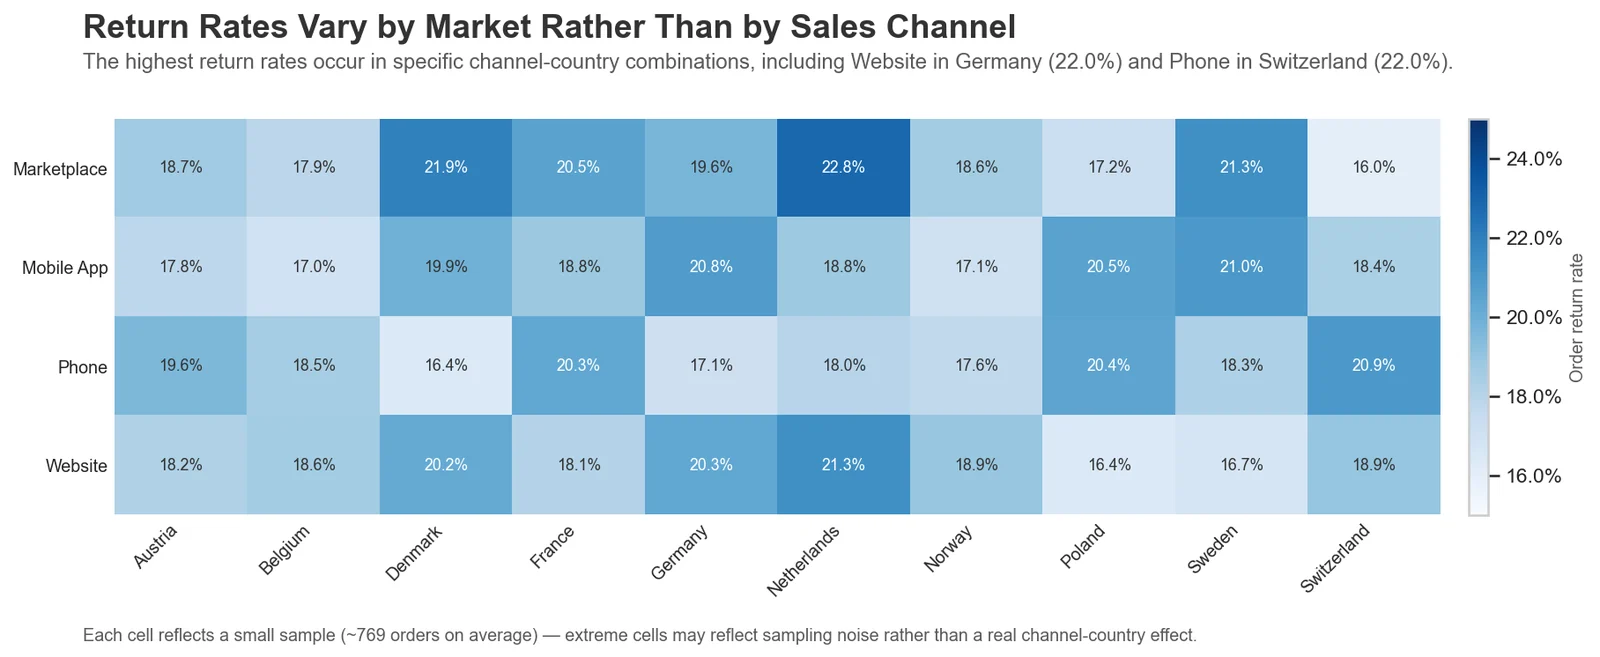
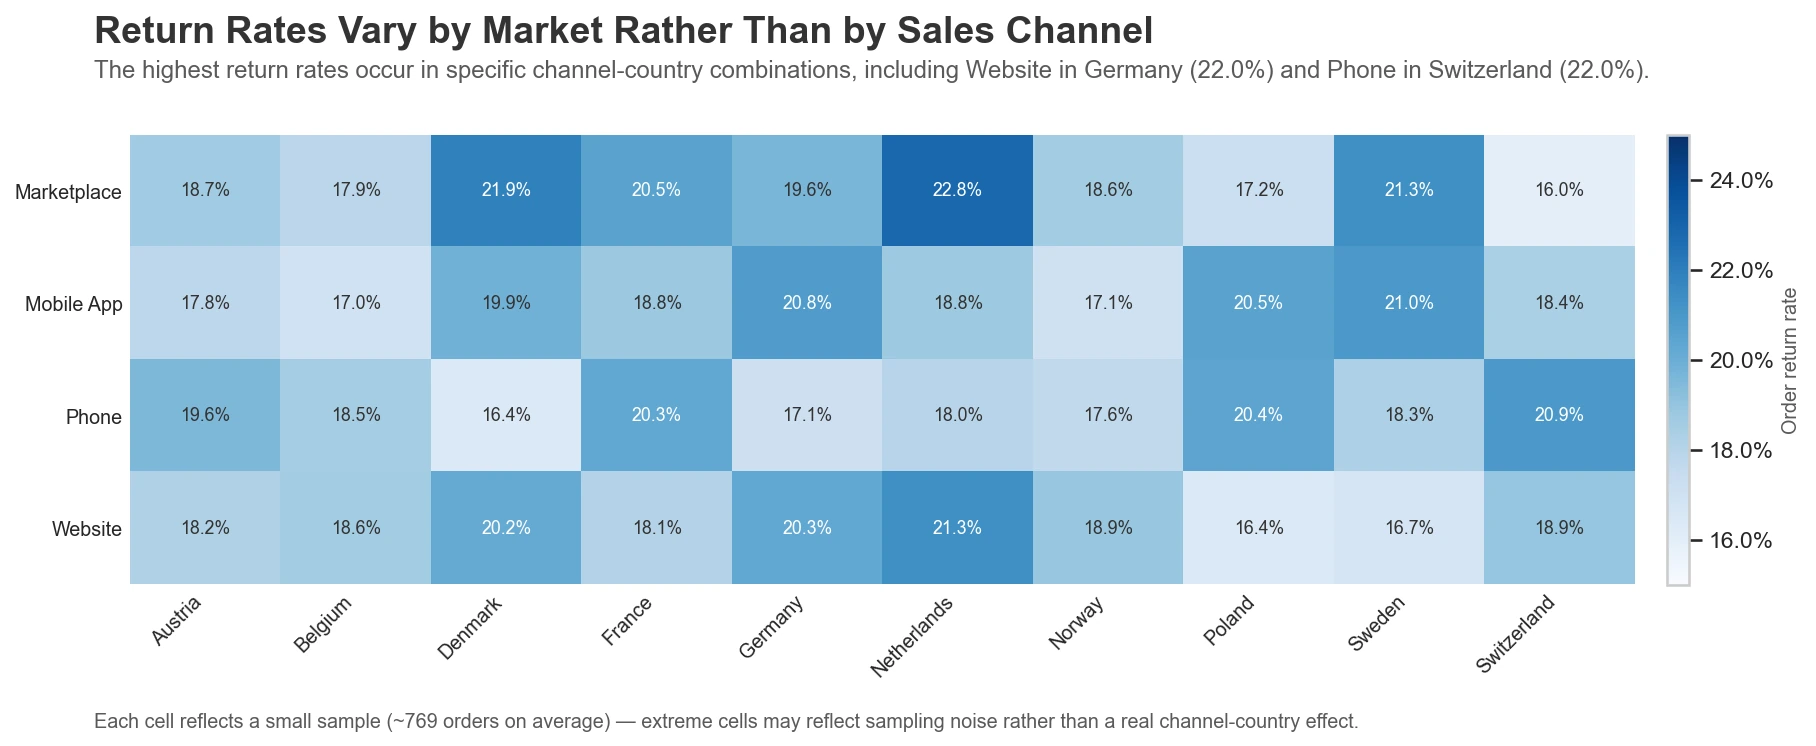
NordHome page: use full-resolution dashboard and EDA images
Claude-Session: https://claude.ai/code/session_01WrYojPvr5pPYxGQ397kDFe

diff --git a/nordhome-retail.html b/nordhome-retail.html
@@ -116,7 +116,7 @@
 <div class="nh-eda">
 <p class="nh-label" data-en="The question" data-de="Die Frage">The question</p>
 <h3 data-en="How much order value do cancellations, returns and refunds take away?" data-de="Wie viel Bestellwert nehmen Stornos, Retouren und Erstattungen weg?">How much order value do cancellations, returns and refunds take away?</h3>
-<figure class="nh-fig"><a class="nh-zoom" href="images/nordhome-eda-status-impact.webp" target="_blank" rel="noopener" aria-label="Open full size"><img src="images/nordhome-eda-status-impact.webp" alt="Bar chart of order value lost to cancellations, returns and refunds per year" width="1600" height="824" loading="lazy" decoding="async"></a></figure>
+<figure class="nh-fig"><a class="nh-zoom" href="images/nordhome-eda-status-impact.webp" target="_blank" rel="noopener" aria-label="Open full size"><img src="images/nordhome-eda-status-impact.webp" alt="Bar chart of order value lost to cancellations, returns and refunds per year" width="1961" height="1010" loading="lazy" decoding="async"></a></figure>
 <p class="nh-label" data-en="What I found" data-de="Was ich fand">What I found</p>
 <p class="nh-body" data-en="About &lt;strong&gt;17%&lt;/strong&gt; of potential order value every year (16.5–17.4%) — a stable band with no improving trend. Cancellations are consistently the largest part." data-de="Etwa &lt;strong&gt;17 %&lt;/strong&gt; des potenziellen Bestellwerts pro Jahr (16,5–17,4 %) – ein stabiles Band ohne Verbesserungstrend. Stornos sind durchgehend der größte Anteil.">About <strong>17%</strong> of potential order value every year (16.5–17.4%) — a stable band with no improving trend. Cancellations are consistently the largest part.</p>
 <p class="nh-limit" data-en="&lt;span class=&quot;nh-label-inline&quot;&gt;Limitation&lt;/span&gt; Operational impact, not cash loss: actual cash refunds are a much smaller 2.6%." data-de="&lt;span class=&quot;nh-label-inline&quot;&gt;Grenze&lt;/span&gt; Operative Auswirkung, kein Geldverlust: Tatsächliche Barerstattungen liegen bei nur 2,6 %."><span class="nh-label-inline">Limitation</span> Operational impact, not cash loss: actual cash refunds are a much smaller 2.6%.</p>
@@ -124,7 +124,7 @@
 <div class="nh-eda">
 <p class="nh-label" data-en="The question" data-de="Die Frage">The question</p>
 <h3 data-en="Does the “average customer” describe the customer base?" data-de="Beschreibt der „Durchschnittskunde“ den Kundenstamm?">Does the “average customer” describe the customer base?</h3>
-<figure class="nh-fig"><a class="nh-zoom" href="images/nordhome-eda-customer-outliers.webp" target="_blank" rel="noopener" aria-label="Open full size"><img src="images/nordhome-eda-customer-outliers.webp" alt="Histogram of revenue per customer with the top 1.9% highlighted above 6,790 euros" width="1600" height="928" loading="lazy" decoding="async"></a></figure>
+<figure class="nh-fig"><a class="nh-zoom" href="images/nordhome-eda-customer-outliers.webp" target="_blank" rel="noopener" aria-label="Open full size"><img src="images/nordhome-eda-customer-outliers.webp" alt="Histogram of revenue per customer with the top 1.9% highlighted above 6,790 euros" width="1606" height="931" loading="lazy" decoding="async"></a></figure>
 <p class="nh-label" data-en="What I found" data-de="Was ich fand">What I found</p>
 <p class="nh-body" data-en="Not quite. &lt;strong&gt;151 of 7,969 customers (1.9%)&lt;/strong&gt; spend above €6,790, up to €11,428 — a small high-value group that the average hides." data-de="Nicht ganz. &lt;strong&gt;151 von 7.969 Kunden (1,9 %)&lt;/strong&gt; geben mehr als 6.790 € aus, bis zu 11.428 € – eine kleine Gruppe mit hohem Wert, die der Durchschnitt versteckt.">Not quite. <strong>151 of 7,969 customers (1.9%)</strong> spend above €6,790, up to €11,428 — a small high-value group that the average hides.</p>
 <p class="nh-limit" data-en="&lt;span class=&quot;nh-label-inline&quot;&gt;Limitation&lt;/span&gt; Unknown customers and returned, refunded or cancelled value are excluded." data-de="&lt;span class=&quot;nh-label-inline&quot;&gt;Grenze&lt;/span&gt; Unbekannte Kunden sowie retournierter, erstatteter oder stornierter Wert sind ausgeschlossen."><span class="nh-label-inline">Limitation</span> Unknown customers and returned, refunded or cancelled value are excluded.</p>
@@ -132,7 +132,7 @@
 <div class="nh-eda">
 <p class="nh-label" data-en="The question" data-de="Die Frage">The question</p>
 <h3 data-en="Do return rates depend on the sales channel or on the market?" data-de="Hängen Retourenquoten vom Vertriebskanal oder vom Markt ab?">Do return rates depend on the sales channel or on the market?</h3>
-<figure class="nh-fig"><a class="nh-zoom" href="images/nordhome-eda-return-heatmap.webp" target="_blank" rel="noopener" aria-label="Open full size"><img src="images/nordhome-eda-return-heatmap.webp" alt="Heatmap of return rates by sales channel and country" width="1600" height="657" loading="lazy" decoding="async"></a></figure>
+<figure class="nh-fig"><a class="nh-zoom" href="images/nordhome-eda-return-heatmap.webp" target="_blank" rel="noopener" aria-label="Open full size"><img src="images/nordhome-eda-return-heatmap.webp" alt="Heatmap of return rates by sales channel and country" width="1816" height="746" loading="lazy" decoding="async"></a></figure>
 <p class="nh-label" data-en="What I found" data-de="Was ich fand">What I found</p>
 <p class="nh-body" data-en="Neither alone. Across 40 channel × country combinations, rates range from &lt;strong&gt;16.0% to 22.8%&lt;/strong&gt; (average 19.0%), highest for Marketplace in the Netherlands." data-de="Keines allein. Über 40 Kombinationen aus Kanal × Land liegen die Quoten zwischen &lt;strong&gt;16,0 % und 22,8 %&lt;/strong&gt; (Durchschnitt 19,0 %), am höchsten für Marketplace in den Niederlanden.">Neither alone. Across 40 channel × country combinations, rates range from <strong>16.0% to 22.8%</strong> (average 19.0%), highest for Marketplace in the Netherlands.</p>
 <p class="nh-limit" data-en="&lt;span class=&quot;nh-label-inline&quot;&gt;Limitation&lt;/span&gt; A modest signal: each cell is a small sample (~769 orders), so extreme cells may be noise." data-de="&lt;span class=&quot;nh-label-inline&quot;&gt;Grenze&lt;/span&gt; Ein schwaches Signal: Jede Zelle ist eine kleine Stichprobe (~769 Bestellungen), Extremwerte können Rauschen sein."><span class="nh-label-inline">Limitation</span> A modest signal: each cell is a small sample (~769 orders), so extreme cells may be noise.</p>
@@ -150,25 +150,25 @@
 <article class="nh-view"><a class="nh-view-link" href="images/nordhome-pbi-01-executive.webp" target="_blank" rel="noopener">
 <p class="nh-view-label"><span class="nh-view-n">01</span> <span class="nh-view-t" data-en="EXECUTIVE OVERVIEW" data-de="EXECUTIVE OVERVIEW">EXECUTIVE OVERVIEW</span></p>
 <h3 class="nh-view-q" data-en="Is NordHome growing, and is that growth trustworthy?" data-de="Wächst NordHome – und ist dieses Wachstum verlässlich?">Is NordHome growing, and is that growth trustworthy?</h3>
-<span class="nh-view-img"><img src="images/nordhome-pbi-01-executive.webp" alt="Power BI dashboard page: Executive Overview" width="2000" height="1126" loading="lazy" decoding="async"></span>
+<span class="nh-view-img"><img src="images/nordhome-pbi-01-executive.webp" alt="Power BI dashboard page: Executive Overview" width="3022" height="1702" loading="lazy" decoding="async"></span>
 <span class="nh-view-foot"><span class="nh-view-tags" data-en="Revenue · Margin · Orders · Growth" data-de="Umsatz · Marge · Bestellungen · Wachstum">Revenue · Margin · Orders · Growth</span><span class="nh-view-arrow"><svg viewBox="0 0 24 24" width="12" height="12" fill="none" stroke="currentColor" stroke-width="1.6" stroke-linecap="round" stroke-linejoin="round" aria-hidden="true"><path d="M7 17 17 7M9 7h8v8"/></svg></span></span>
 </a></article>
 <article class="nh-view"><a class="nh-view-link" href="images/nordhome-pbi-02-sales.webp" target="_blank" rel="noopener">
 <p class="nh-view-label"><span class="nh-view-n">02</span> <span class="nh-view-t" data-en="SALES &amp; PRODUCT PERFORMANCE" data-de="SALES &amp; PRODUCT PERFORMANCE">SALES & PRODUCT PERFORMANCE</span></p>
 <h3 class="nh-view-q" data-en="What is driving revenue, and what is dragging on it?" data-de="Was treibt den Umsatz – und was bremst ihn?">What is driving revenue, and what is dragging on it?</h3>
-<span class="nh-view-img"><img src="images/nordhome-pbi-02-sales.webp" alt="Power BI dashboard page: Sales &amp; Product Performance" width="2000" height="1126" loading="lazy" decoding="async"></span>
+<span class="nh-view-img"><img src="images/nordhome-pbi-02-sales.webp" alt="Power BI dashboard page: Sales &amp; Product Performance" width="3022" height="1702" loading="lazy" decoding="async"></span>
 <span class="nh-view-foot"><span class="nh-view-tags" data-en="Products · Categories · Discounts · Returns" data-de="Produkte · Kategorien · Rabatte · Retouren">Products · Categories · Discounts · Returns</span><span class="nh-view-arrow"><svg viewBox="0 0 24 24" width="12" height="12" fill="none" stroke="currentColor" stroke-width="1.6" stroke-linecap="round" stroke-linejoin="round" aria-hidden="true"><path d="M7 17 17 7M9 7h8v8"/></svg></span></span>
 </a></article>
 <article class="nh-view"><a class="nh-view-link" href="images/nordhome-pbi-03-customer.webp" target="_blank" rel="noopener">
 <p class="nh-view-label"><span class="nh-view-n">03</span> <span class="nh-view-t" data-en="CUSTOMER ANALYSIS" data-de="KUNDENANALYSE">CUSTOMER ANALYSIS</span></p>
 <h3 class="nh-view-q" data-en="Who are the customers behind revenue?" data-de="Wer sind die Kunden hinter dem Umsatz?">Who are the customers behind revenue?</h3>
-<span class="nh-view-img"><img src="images/nordhome-pbi-03-customer.webp" alt="Power BI dashboard page: Customer Analysis" width="2000" height="1126" loading="lazy" decoding="async"></span>
+<span class="nh-view-img"><img src="images/nordhome-pbi-03-customer.webp" alt="Power BI dashboard page: Customer Analysis" width="3022" height="1702" loading="lazy" decoding="async"></span>
 <span class="nh-view-foot"><span class="nh-view-tags" data-en="Customers · Retention · Frequency · Value" data-de="Kunden · Retention · Frequenz · Wert">Customers · Retention · Frequency · Value</span><span class="nh-view-arrow"><svg viewBox="0 0 24 24" width="12" height="12" fill="none" stroke="currentColor" stroke-width="1.6" stroke-linecap="round" stroke-linejoin="round" aria-hidden="true"><path d="M7 17 17 7M9 7h8v8"/></svg></span></span>
 </a></article>
 <article class="nh-view"><a class="nh-view-link" href="images/nordhome-pbi-04-marketing.webp" target="_blank" rel="noopener">
 <p class="nh-view-label"><span class="nh-view-n">04</span> <span class="nh-view-t" data-en="MARKETING ANALYSIS" data-de="MARKETING-ANALYSE">MARKETING ANALYSIS</span></p>
 <h3 class="nh-view-q" data-en="Which channels and campaigns actually convert?" data-de="Welche Kanäle und Kampagnen konvertieren wirklich?">Which channels and campaigns actually convert?</h3>
-<span class="nh-view-img"><img src="images/nordhome-pbi-04-marketing.webp" alt="Power BI dashboard page: Marketing Analysis" width="2000" height="1126" loading="lazy" decoding="async"></span>
+<span class="nh-view-img"><img src="images/nordhome-pbi-04-marketing.webp" alt="Power BI dashboard page: Marketing Analysis" width="3022" height="1702" loading="lazy" decoding="async"></span>
 <span class="nh-view-foot"><span class="nh-view-tags" data-en="Channels · Campaigns · Conversion · ROI" data-de="Kanäle · Kampagnen · Conversion · ROI">Channels · Campaigns · Conversion · ROI</span><span class="nh-view-arrow"><svg viewBox="0 0 24 24" width="12" height="12" fill="none" stroke="currentColor" stroke-width="1.6" stroke-linecap="round" stroke-linejoin="round" aria-hidden="true"><path d="M7 17 17 7M9 7h8v8"/></svg></span></span>
 </a></article>
 </div>
